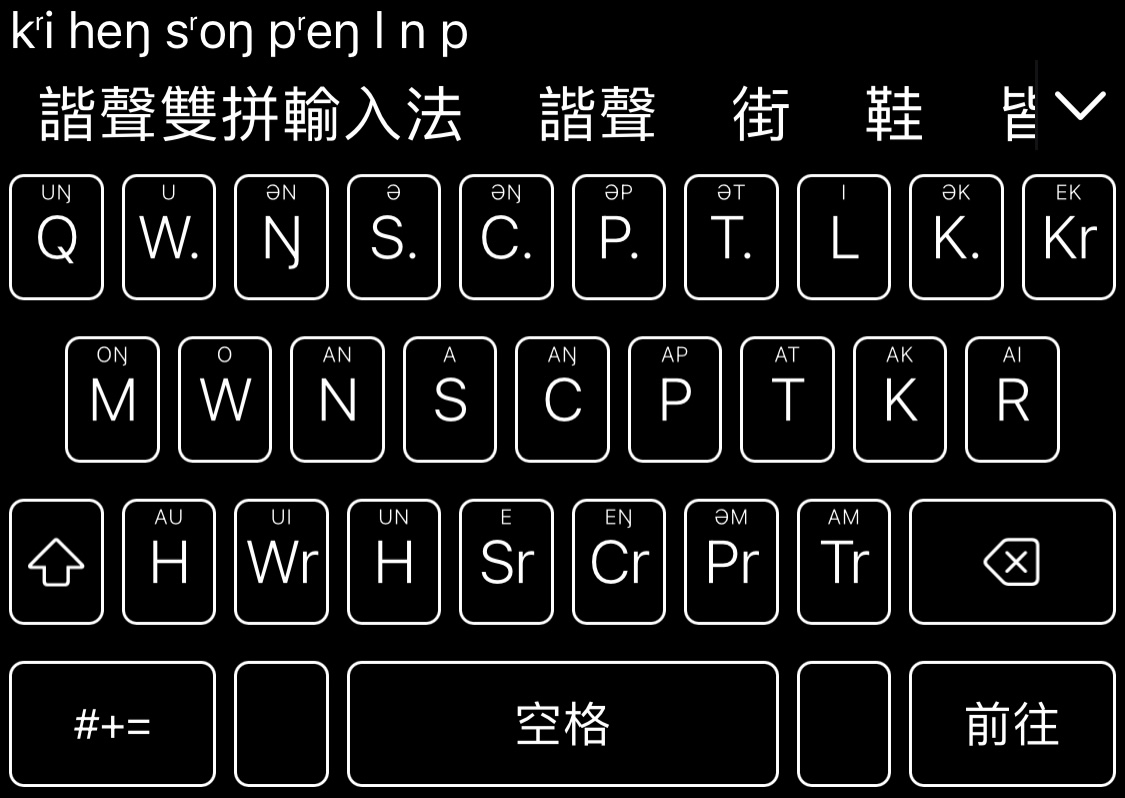
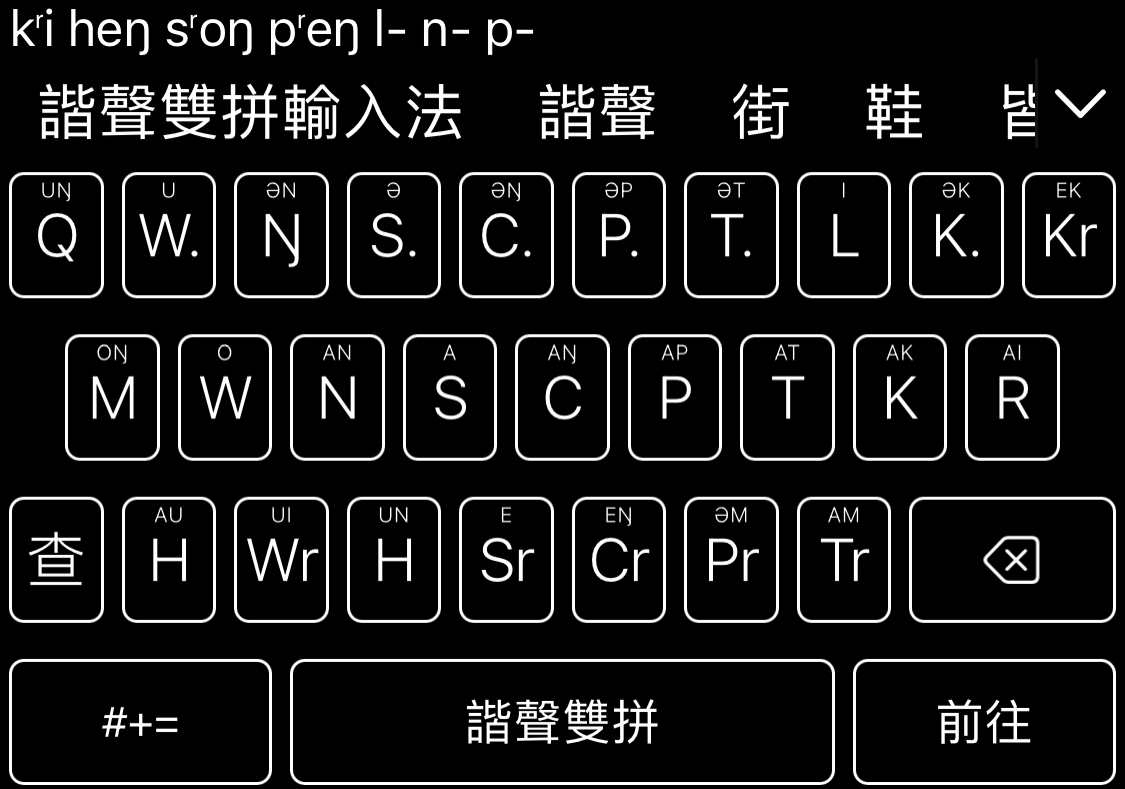
new file:   gryihleng_double_hamster.schema.yaml

diff --git a/README.md b/README.md
@@ -13,9 +13,9 @@
 
 按“`”鍵使用[朙月拼音](https://github.com/rime/rime-luna-pinyin)反查上古音，當然也可以替換成其它反查輸入方式（請確認已安裝反查使用的字典）
 
-在iOS上使用[倉hamster](https://github.com/imfuxiao/Hamster)App部署諧聲雙拼輸入法時，可以安裝[專用鍵盤](hamster_supplements/clear_keyboard.custom.yaml)和[高對比配色](hamster_supplements/hamster_color_schemas.custom.yaml)（據說hamster很快更新可以調整字號，就不需要高對比配色也能看清鍵盤了）；鍵盤文件可以在設置中導入，配色文件直接放至Rime文件夾部署即可，新手請參考[倉wiki](https://github.com/imfuxiao/Hamster/wiki)
+在iOS上使用[倉hamster](https://github.com/imfuxiao/Hamster)App部署諧聲雙拼輸入法時，可以部署[特製schema](gryihleng_double_hamster.schema.yaml)並安裝[專用鍵盤](hamster_supplements/clear_keyboard.custom.yaml)和[高對比配色](hamster_supplements/hamster_color_schemas.custom.yaml)（據說hamster很快更新可以調整字號，就不需要高對比配色也能看清鍵盤了）；鍵盤文件可以在設置中導入，配色文件直接放至Rime文件夾部署即可，新手請參考[倉wiki](https://github.com/imfuxiao/Hamster/wiki)
 
-配套iOS的鍵盤保留了上下劃常用數字和標點，請劃一劃試試；上劃Space切換英文，Space兩側的鍵是簡碼用來替換韻母的“;”字符；使用反查請確認反查使用的字典也已安裝
+配套iOS的鍵盤保留了上下劃常用數字和標點，請劃一劃試試；上劃Space切換英文，左右劃任意字母可以實現首字母簡寫；使用反查功能請確認反查用的字典也已安裝
 
 ![iOS倉輸入法截圖](hamster_supplements/screenshot.jpeg)
 
